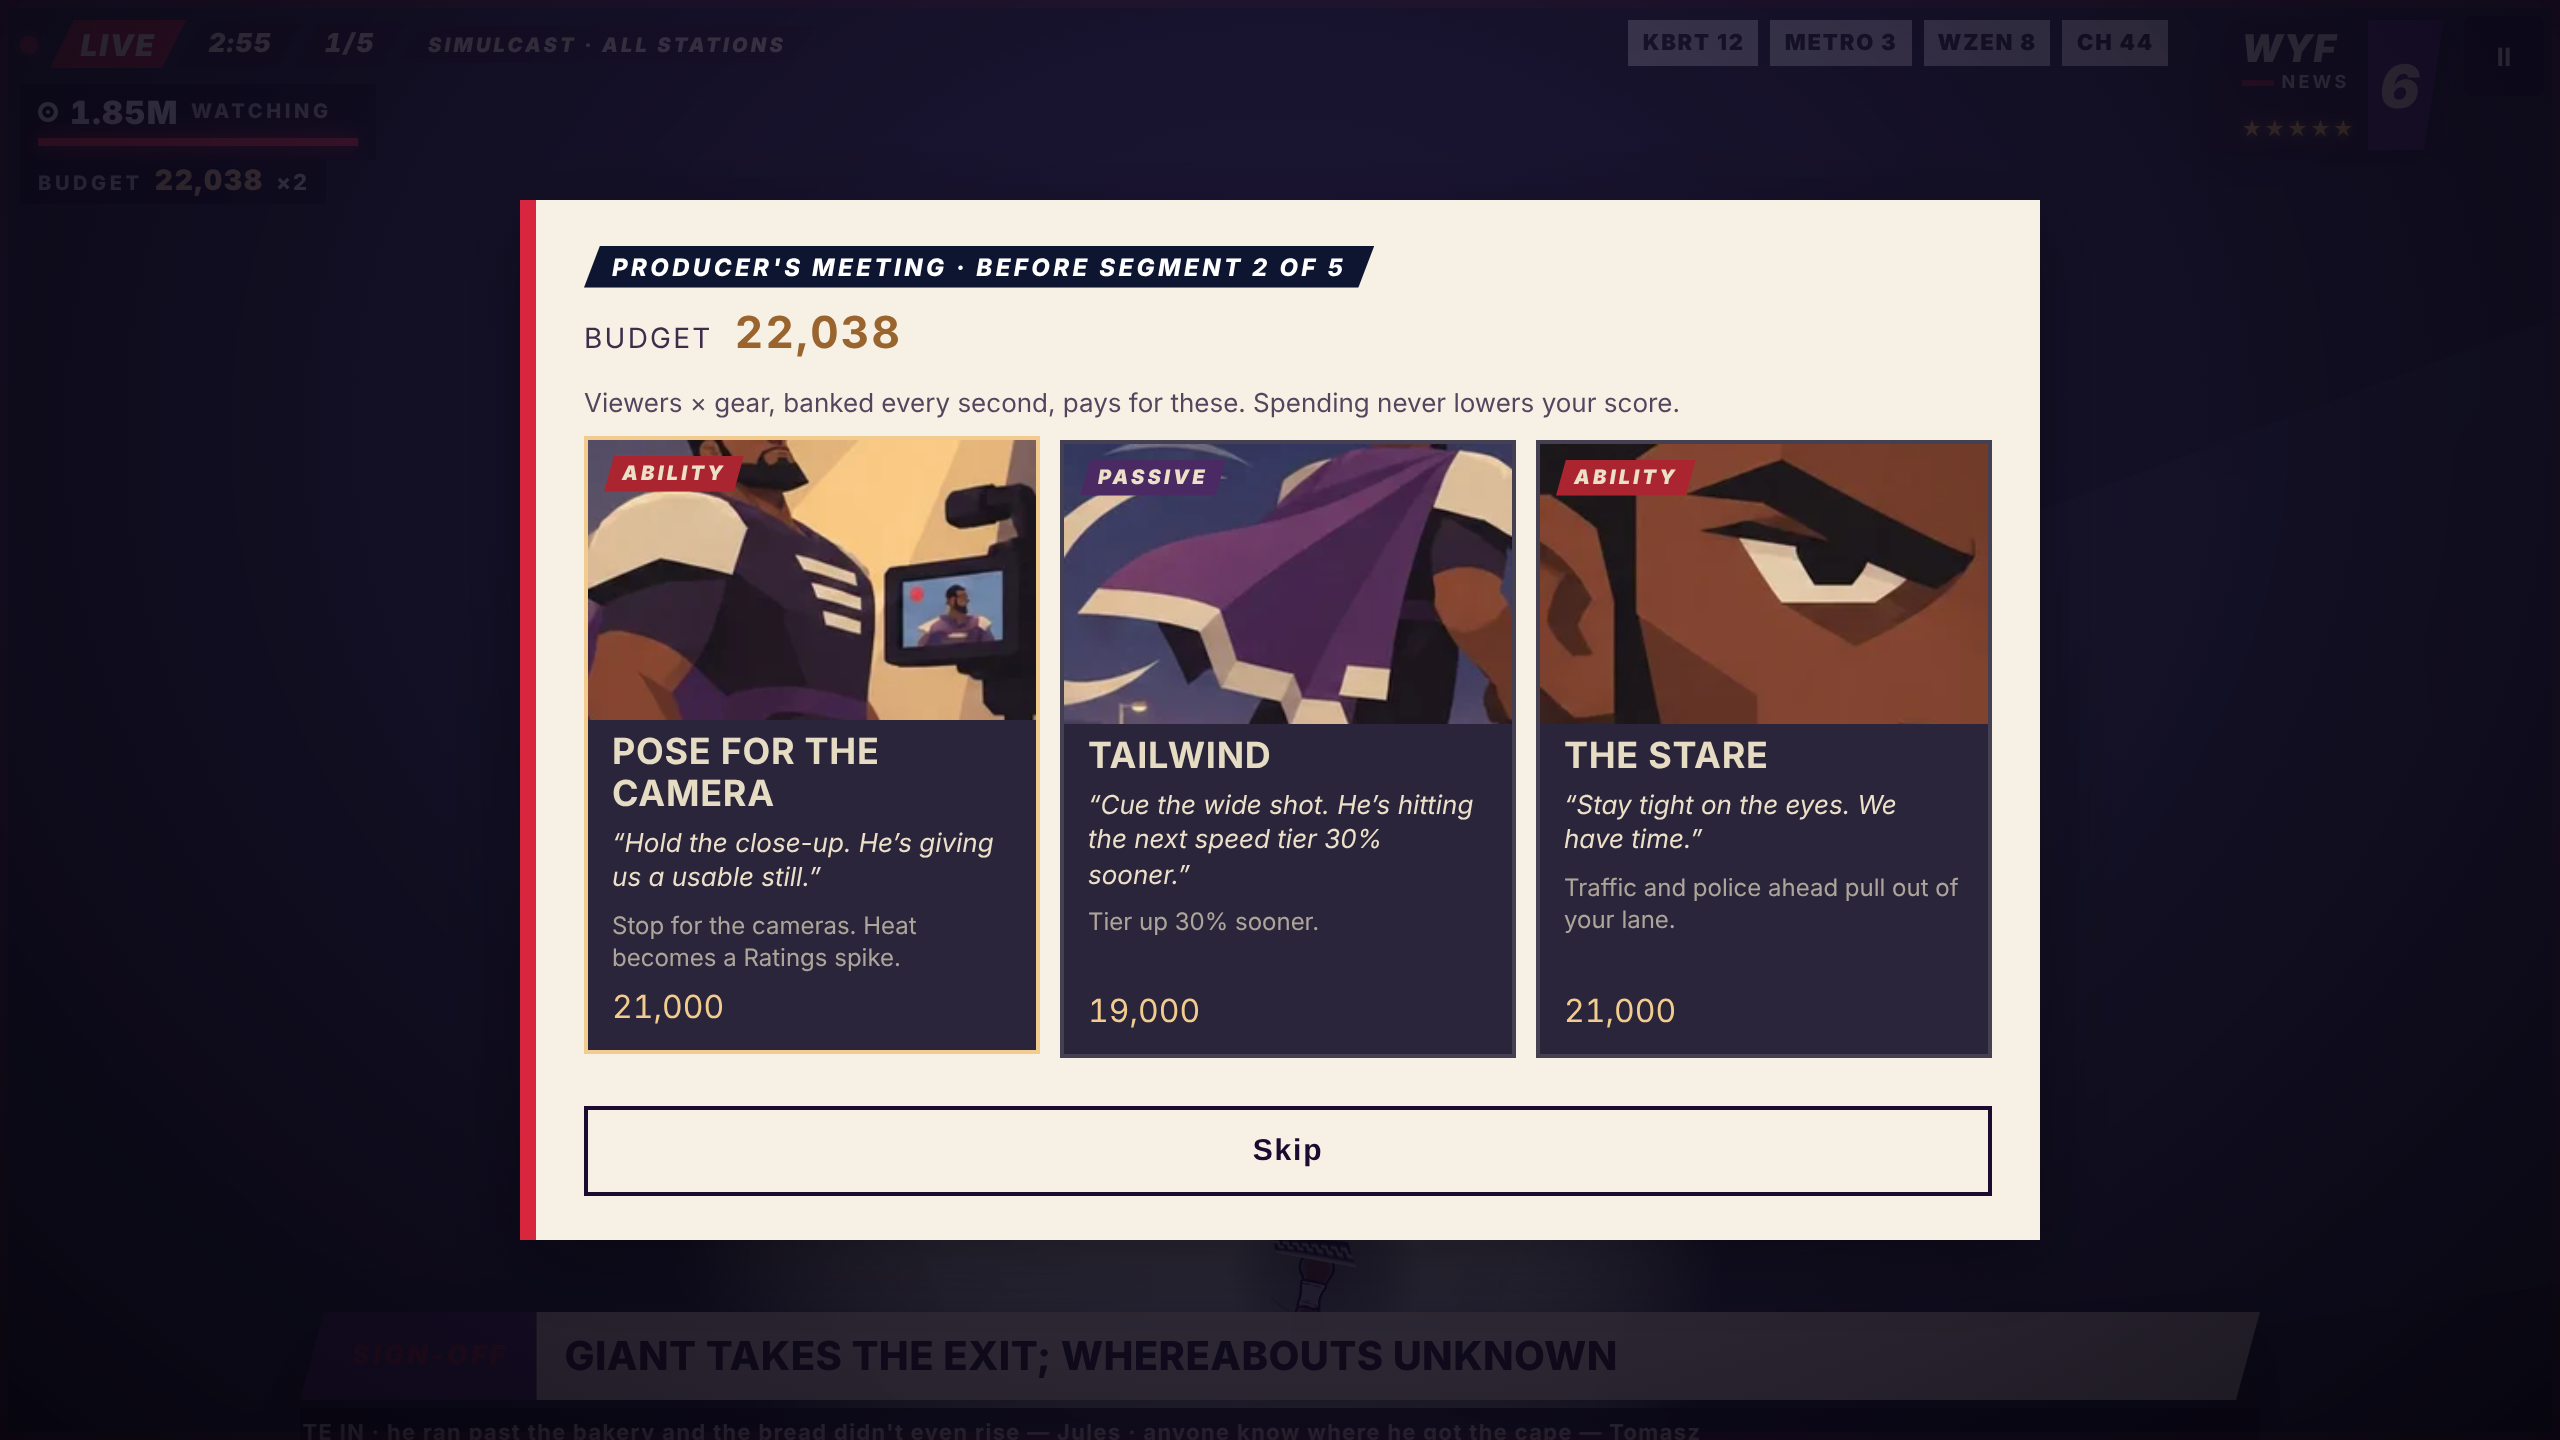
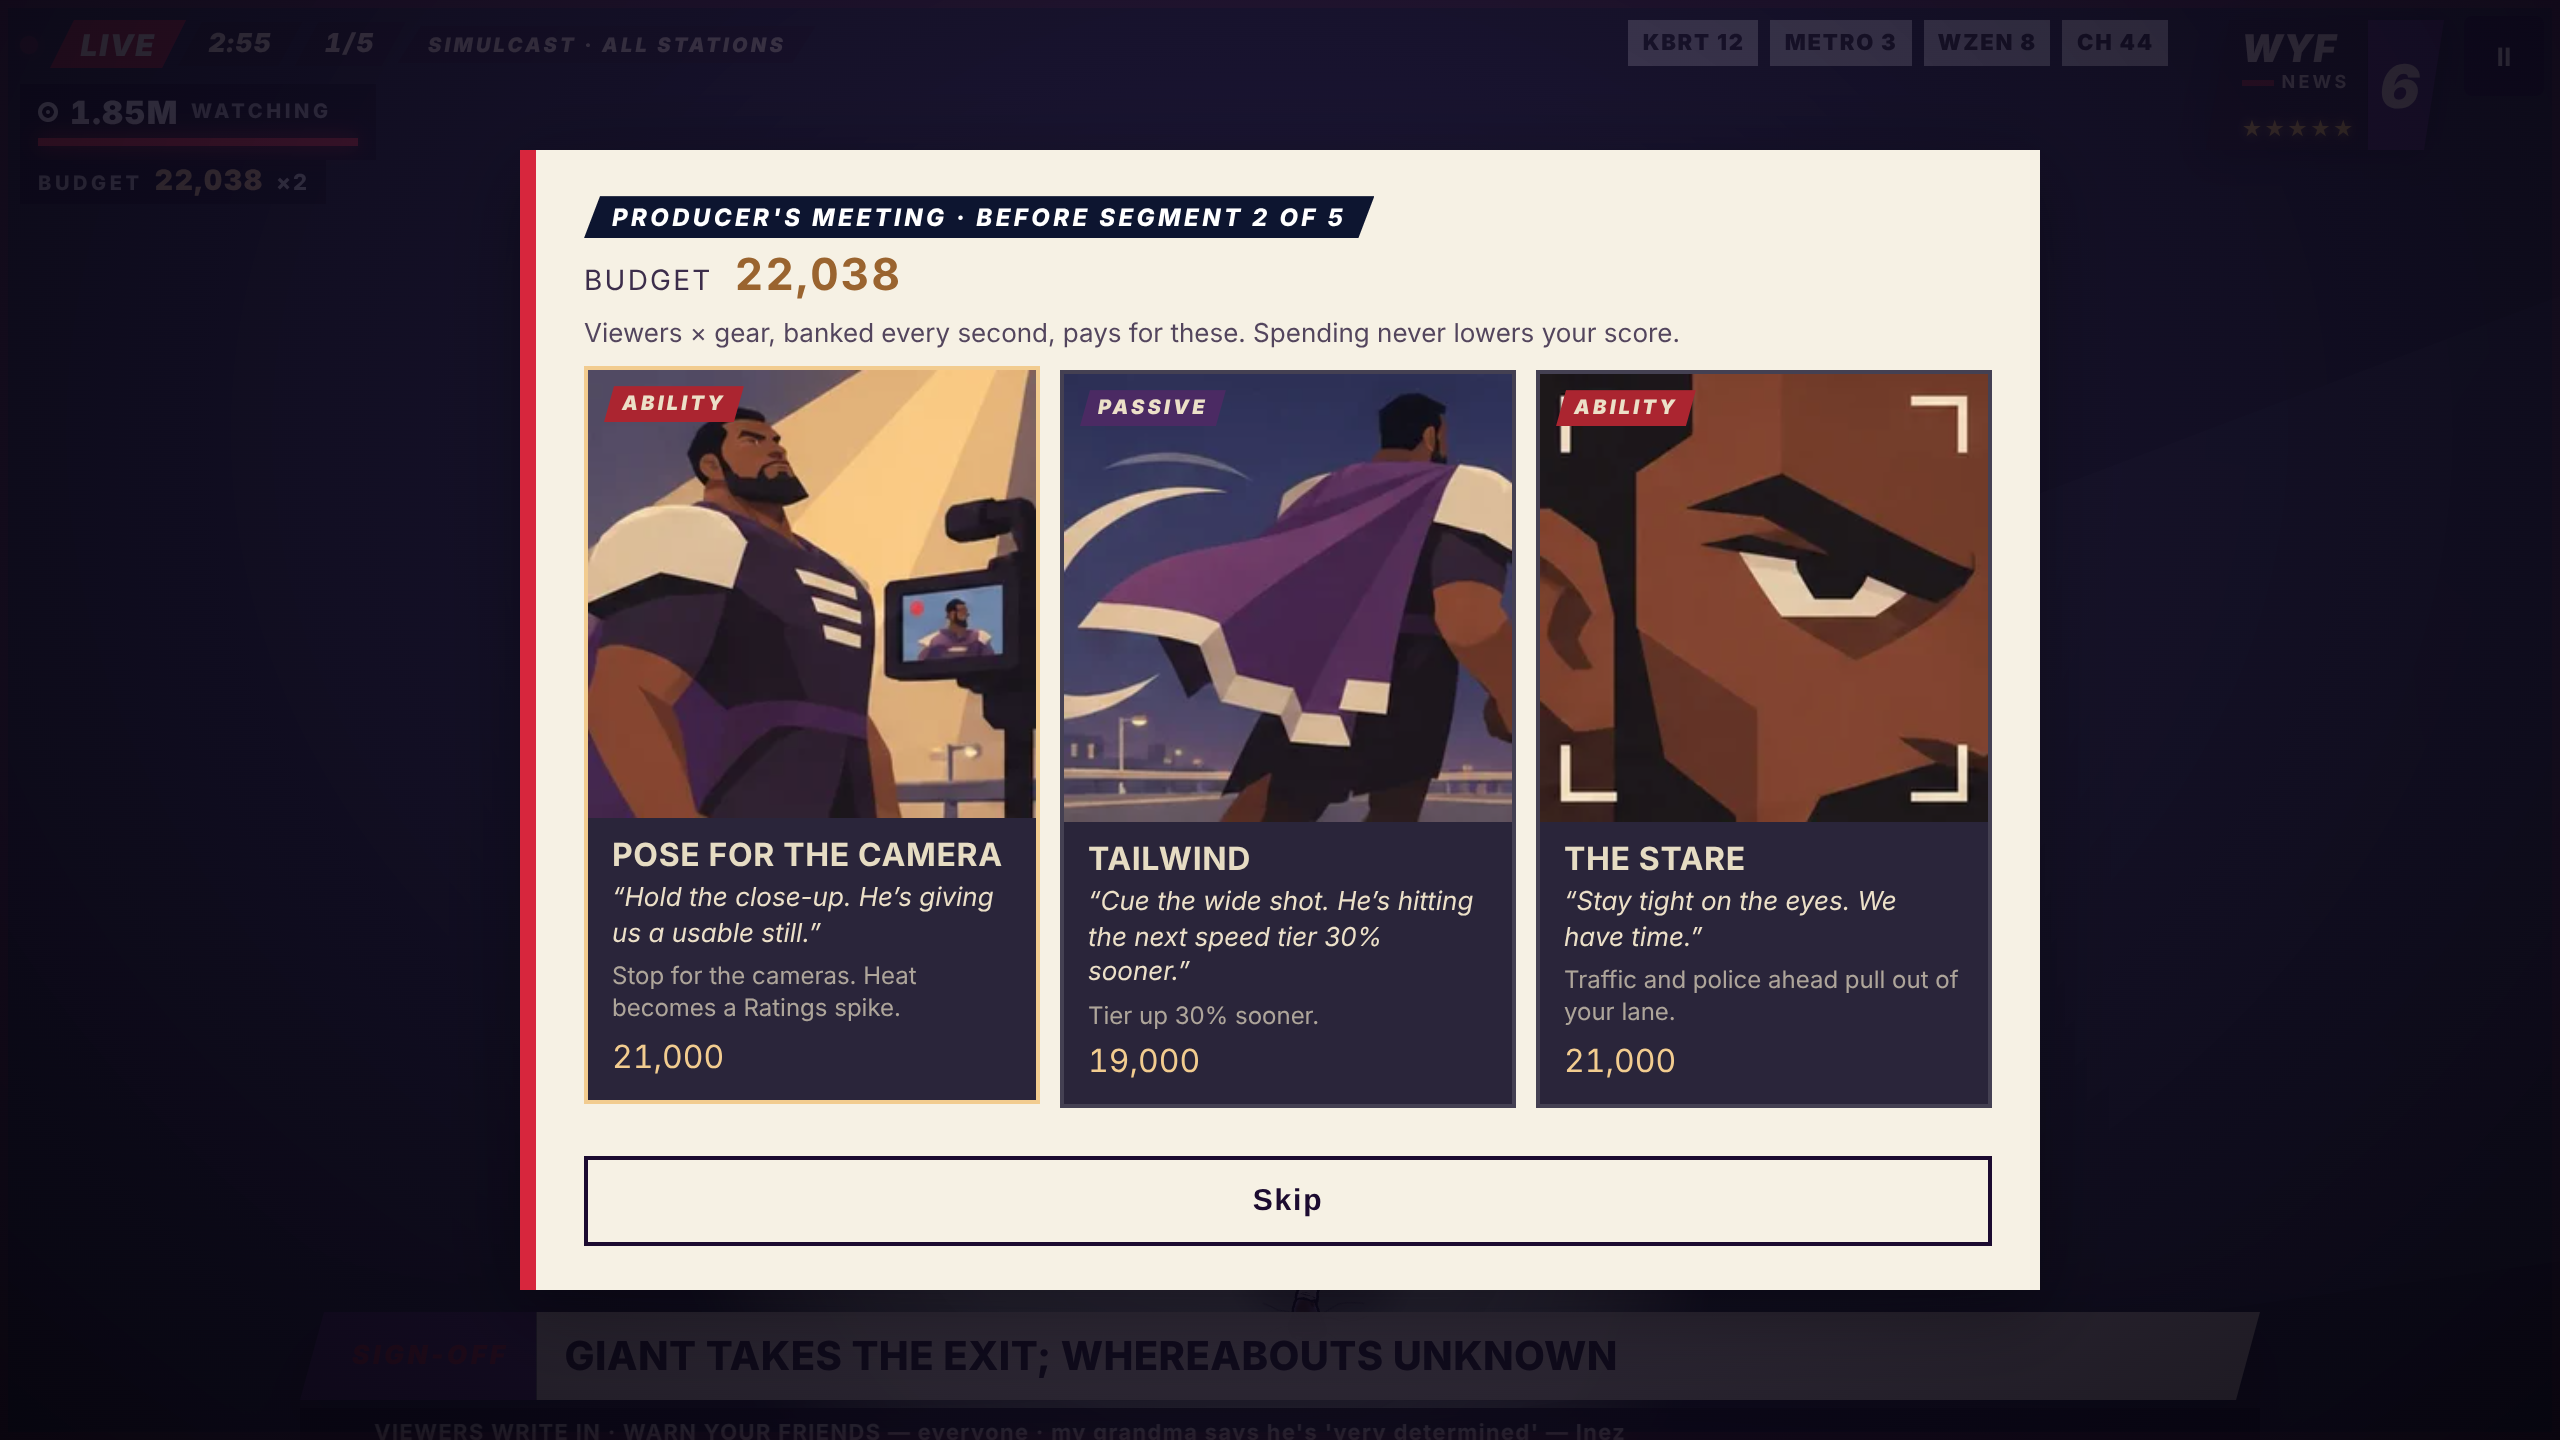
Meeting cards show the whole square art; side-by-side layout on small screens
Claude-Session: https://claude.ai/code/session_01U6CEu36hrVhyNvxAEfgX3T

Changed region(s): [[0.1875, 0.0938, 0.8125, 0.9062]]

diff --git a/src/style.css b/src/style.css
@@ -420,7 +420,12 @@ html:has(#budget:not([hidden])) #gainpop { top: calc(108px + env(safe-area-inset
 /* Producer's Meeting cards: the sheet's art up top, the producer's line, then what it does. */
 #recap .pitch { padding: 0 0 12px; overflow: hidden; }
 #recap .pitch > :not(.art) { margin-left: 12px; margin-right: 12px; }
-#recap .pitch .art { position: relative; display: block; width: 100%; aspect-ratio: 16 / 10; overflow: hidden; background: #191230; }
+/* The art is square: show all of it, never crop. */
+#recap .pitch .art { position: relative; display: block; width: 100%; aspect-ratio: 1 / 1; overflow: hidden; background: #191230; }
+#recap .pitch { min-height: 0; gap: 4px; }
+#recap .pitch b { font-size: 16px; margin-top: 4px; }
+#recap .meeting .how { margin: 0 0 10px; font-size: 13px; }
+#recap .meeting .purse { margin: 6px 0 8px; }
 #recap .pitch .art img { width: 100%; height: 100%; object-fit: cover; display: block; }
 #recap .pitch .art .tag { position: absolute; left: 8px; top: 8px; font-style: italic; font-weight: 900; clip-path: polygon(5px 0, 100% 0, calc(100% - 5px) 100%, 0 100%); padding: 3px 9px; background: var(--wyf-ink); color: var(--wyf-cream); }
 #recap .pitch.ability .art .tag { background: var(--wyf-red); }
@@ -434,3 +439,21 @@ html:has(#budget:not([hidden])) #gainpop { top: calc(108px + env(safe-area-inset
 #btn-ability { background-size: cover; background-position: center; color: var(--wyf-cream); text-shadow: 0 1px 3px #000; display: grid; align-items: end; padding-bottom: 6px; }
 #btn-ability:not(.ready) { filter: grayscale(0.8); }
 #btn-ability.ready { background-color: transparent; color: var(--wyf-cream); box-shadow: 0 0 0 3px #f2cc8f; }
+/* Small screens: the square art sits beside the text (still whole), so three pitches fit without scrolling. */
+@media (max-width: 640px), (max-height: 560px) {
+  #recap .meeting { padding-top: 12px; padding-bottom: 12px; }
+  #recap .meeting .how { display: none; }
+  #recap .pitches { gap: 6px; margin-bottom: 8px; }
+  #recap .pitch { display: grid; grid-template-columns: var(--art, 92px) 1fr; grid-auto-rows: min-content; column-gap: 10px; row-gap: 2px; padding: 0; align-items: start; }
+  #recap .pitch > :not(.art) { grid-column: 2; margin: 0 8px 0 0; }
+  #recap .pitch .art { grid-column: 1; grid-row: 1 / span 6; width: var(--art, 92px); }
+  #recap .pitch b { font-size: 14px; margin-top: 6px; }
+  #recap .pitch .said { font-size: 12px; }
+  #recap .pitch .blurb { font-size: 11px; }
+  #recap .pitch .price { font-size: 14px; margin-bottom: 6px; }
+  #recap .pitch .art .tag { font-size: 8px; left: 4px; top: 4px; padding: 2px 6px; }
+}
+@media (max-height: 560px) and (min-width: 641px) {
+  #recap .meeting { max-width: 860px; }
+  #recap .pitch { --art: 104px; }
+}

diff --git a/DECISIONS.md b/DECISIONS.md
@@ -4,7 +4,7 @@ Build-time decisions, working defaults for open questions (GDD §46), and deviat
 
 | Date | Decision | Why | Revisit |
 |---|---|---|---|
-| 2026-11-15 | **Broadcast package and upgrade art from Mike's sheet** (`docs/refs/broadcast-and-upgrades-sheet.webp`). The badges (LIVE, station bug, chyron, BREAKING, BUSTED / SIGN-OFF kickers, card kickers) are rebuilt in CSS, not cut from the raster: slanted parallelograms, heavy italic caps, the sheet's red #ab2530 / ink #1e1821 / purple #4b2a63 / cream #ece0c8. Crisp at any size, and none of the raster's edge fringing. The bug reads WYF / NEWS on ink with the 6 on purple. The 8 illustrations are cropped to 256px webp (`src/assets/upgrades/`) for the Producer's Meeting cards (art on top, then the producer's line as a quote, then what it does) and for the ability chip and touch button (greyed while cooling down). Producer lines are Mike's (`pitch` in `tuning.ts` upgrades). EXCLUSIVE and REPLAY have no use yet (replays are Phase 5). | Mike's sheet and copy. | Phase 5 (EXCLUSIVE/REPLAY when replays exist) |
+| 2026-11-15 | **Broadcast package and upgrade art from Mike's sheet** (`docs/refs/broadcast-and-upgrades-sheet.webp`). The badges (LIVE, station bug, chyron, BREAKING, BUSTED / SIGN-OFF kickers, card kickers) are rebuilt in CSS, not cut from the raster: slanted parallelograms, heavy italic caps, the sheet's red #ab2530 / ink #1e1821 / purple #4b2a63 / cream #ece0c8. Crisp at any size, and none of the raster's edge fringing. The bug reads WYF / NEWS on ink with the 6 on purple. The 8 illustrations are cropped to 256px webp (`src/assets/upgrades/`) for the Producer's Meeting cards (the whole square art on top, never cropped; on phones it sits beside the text so three pitches fit without scrolling; then the producer's line as a quote, then what it does) and for the ability chip and touch button (greyed while cooling down). Producer lines are Mike's (`pitch` in `tuning.ts` upgrades). EXCLUSIVE and REPLAY have no use yet (replays are Phase 5). | Mike's sheet and copy. | Phase 5 (EXCLUSIVE/REPLAY when replays exist) |
 | 2026-11-14 | **Police chopper spotlight (v0.3 §11), the fifth pursuer.** It joins at Heat 2+, at most one per 25s. It spawns ≥110m ahead (off camera) and hovers off the top of the frame until no other tell is live. Then it sweeps in, and its **1.5s tell** (a rising second rotor, a cool white pool and beam sliding across the road) starts on screen, like every tell. **Locked:** the pool rides him, his lane gets a pulsing stripe ahead of him ("marked for units"), and police spawn twice as fast. **Shake it:** two lane changes with under 3s between them (+lost track, "Giant Shakes Police Chopper"). A tunnel breaks line of sight too: that isn't a route choice, the road just goes there. After 12s it gives up with no award. Additive meshes only, no real light, so looks never recompile shaders. Soak (200 seeds): 400 locks, 394 shaken by the bot; the other threats spawn as often as before. | v0.3 §11 table; Mike: "go ahead with the chopper spotlight". Route choice isn't in the game yet, so overpasses don't count as cover (Mike: "IDK about the route choices yet"). | Mike's playtest (is twice-quickly too easy?) |
 | 2026-11-14 | **Police cars hit things (lead the chase).** Pursuit cruisers drive in lanes and hit what's in them. Alongside him they're **fixated**: they keep pace even when their lane is blocked ahead, and their only escape is the lane away from him. So running beside a Heavy row leads one into it. **Medium:** it ploughs through (+2 Ratings "collateral", the prop flies). **Heavy/immovable:** it crashes out of the chase, a Heavy prop goes flying with it, +8 Ratings (`policeCrash`, more than shaking a pursuer), a cut-away trigger (as a Heavy smash) and viewer video. The chyron names what it hit ("Cruiser Crashes Into Box Truck; Officers Fine"); nobody is shown hurt. **Readable from the chopper (§1):** crashes only happen at most 3m behind him or anywhere ahead of that; soak (200 seeds): 75 crashes, 1 just outside the frame (the soak allows ≤10%). The escort cruisers still never touch props. | Mike: police cars hitting objects "aids lead/chase gameplay and can link to attention, score". | Mike's playtest; escort crashes if wanted |
 | 2026-11-14 | **Fixed: cruisers could park in his lane.** A leaving cruiser's speed was max(0, his speed − 6), so at brake speed it stopped dead, and one alongside could end up in his lane. He then stood pinned against stopped police cars (7/200 soak broadcasts busted on Pin once the chopper added traffic; baseline max Pin 18). Now a leaving cruiser keeps ≥40% of his speed, pulls out of his lane, and if it's level with or ahead of him while still in his way it speeds up to clear him (instead of stalling half in his lane). A cruiser that isn't alongside him still hangs back 9m, as before; only one alongside is fixated. Soak (200 seeds): 0 Pin busts, max Pin 31 (it was 10 before; the chopper adds real pressure). | Being boxed in by parked cars isn't a choice the player made (§43.3). | — |
